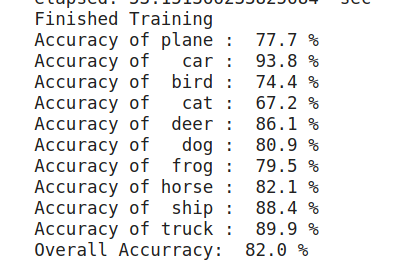
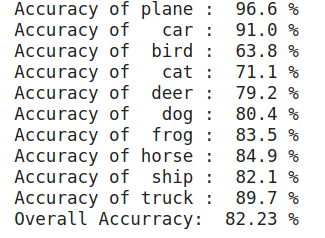
Update result2

diff --git a/hw5-CIFAR-10/README.md b/hw5-CIFAR-10/README.md
@@ -70,16 +70,20 @@ net = IdentityResNet(nblk_stage1=2, nblk_stage2=2,
 
 
 
-* Result of changed the block of netword as below, accuracy increased 4%
+* Result of changed the block of netword and data augmentation as below, accuracy increased 4%
 
   ```python
-  # define network
+  # using RandomHorizontalFlip function to data augmentation
+  transform = transforms.Compose([transforms.RandomHorizontalFlip(),
+                                  transforms.ToTensor(),
+                                  transforms.Normalize((0.5, 0.5, 0.5), (0.5, 0.5, 0.5))])
+# define network
   net = IdentityResNet(nblk_stage1=3, nblk_stage2=4,
-                       nblk_stage3=6, nblk_stage4=3)
+                     nblk_stage3=6, nblk_stage4=3)
   ```
-
   
-
+  
+  
   ![result2](./result2.png)
 
 
